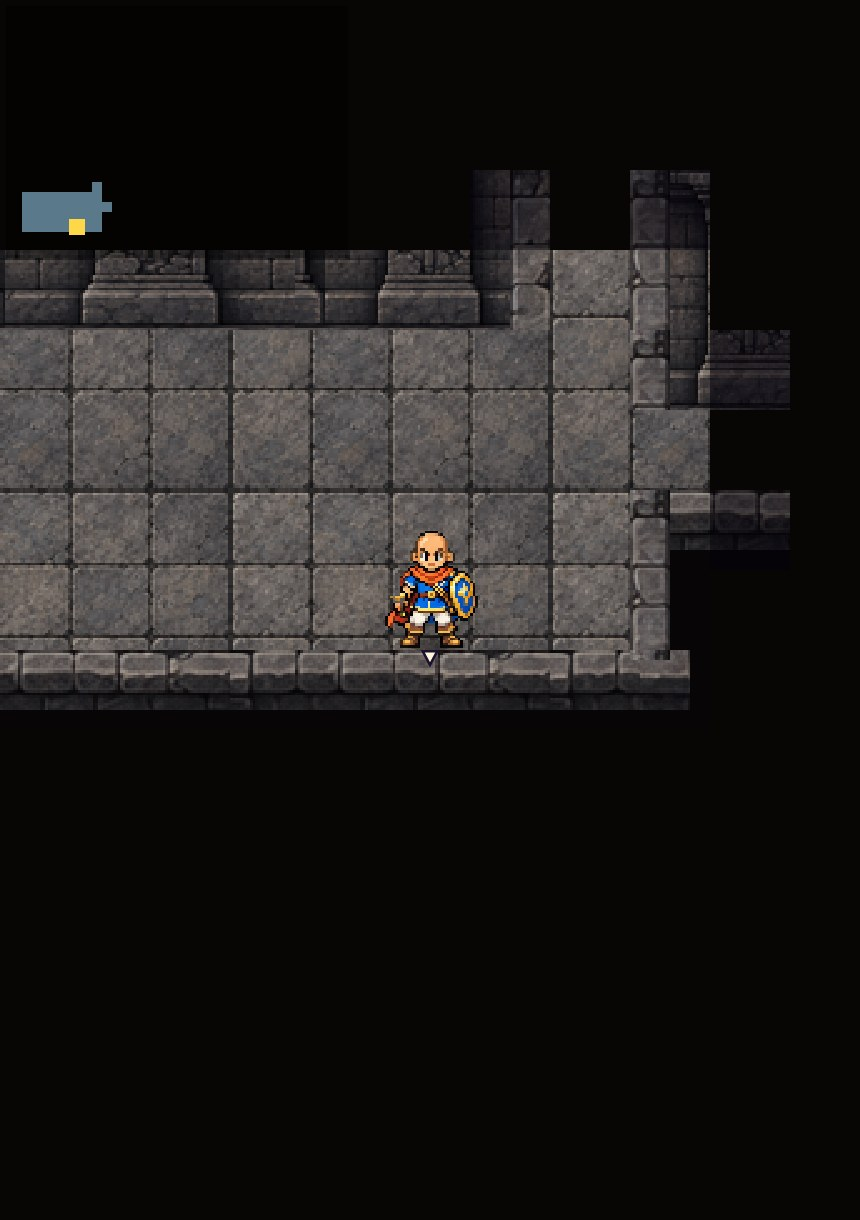
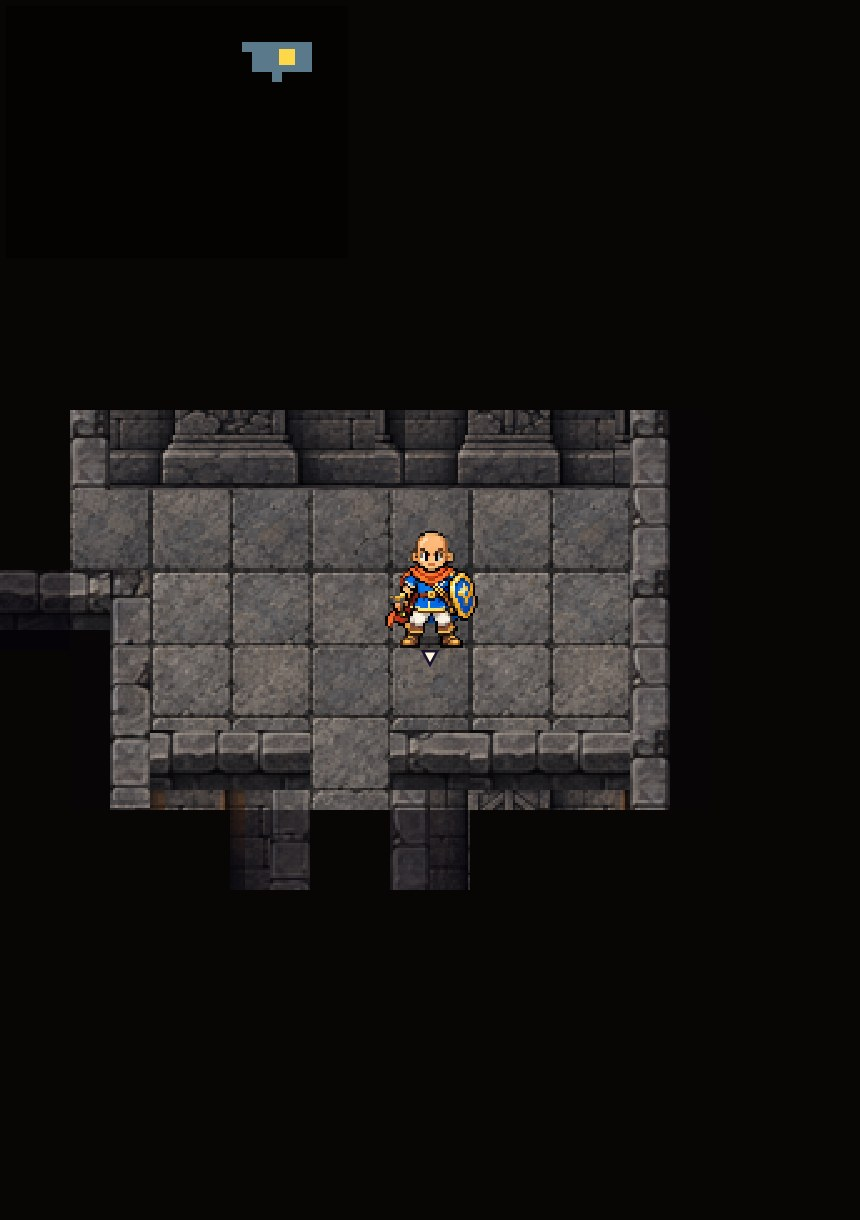
強めたB案（部屋どうしの間の壁を縦横3マス以上）と周回ルート（輪を2つまで）を本番に反映
新しく作る通常階が対象。空きマスが少なく4体置けない部屋はモンスターハウスにしない（地図が変わって3体の部屋が出た）。

Claude-Session: https://claude.ai/code/session_01HDLigwwegm7F2trSGLBQuS

Changed region(s): [[0.0, 0.1246, 0.9372, 0.7475], [0.2721, 0.0311, 0.3628, 0.0623]]

diff --git a/js/data.js b/js/data.js
@@ -36,8 +36,8 @@
   D.MAP_THICK_WALLS = true;   // プランB（2026年10月27日に採用）：薄い壁を作らない地図（js/dungeon.js の thickOk）。新しく作る階から。全地域
   // プランBの条件（10月27日）：side＝床と床の間の壁の横の幅の最小（3＝部屋どうしの間の壁が3マス以上）。run＝正面の壁の並びの最小（使わない：作り直しが増えすぎた）
   /* 周回ルート（試験中。null＝今までどおり追加の通路は1〜3本を試して引けた分だけ）：{ target: 2 }＝隣どうしの区画を足してつなぐ輪を2つまで（隠しダンジョンは今までどおり） */
-  D.MAP_LOOPS = null;
-  D.MAP_THICK_RULES = {};   // 本番は既定（side 2）。side 3 は水没した古代都市で試した段階（docs/sunken-planb/）。採用したら { side: 3 }
+  D.MAP_LOOPS = { target: 2 };   // 2026年10月28日に採用（新しく作る通常階）
+  D.MAP_THICK_RULES = { side: 3 };   // 2026年10月28日に採用：部屋どうしの間の壁は縦横とも3マス以上（docs/sunken-planb/）
   D.MAP.w = D.MAP.cols * D.MAP.cellW;
   D.MAP.h = D.MAP.rows * D.MAP.cellH;
 

diff --git a/js/game.js b/js/game.js
@@ -424,6 +424,8 @@
       if (occupied.some((o) => o.x === x && o.y === y) || G.enemyAt(run, x, y)) continue;
       free.push({ x, y });
     }
+    // 空きマスが少なく4体置けない部屋はモンスターハウスにしない（道具・階段などで埋まっていることがある）
+    if (Math.floor(free.length * 0.6) < 4) { run.map.monsterHouse = null; return; }
     R.shuffle(rng, free);
     const nE = Math.min(MH.enemiesMax, 4 + Math.floor(room.w * room.h / 6), Math.floor(free.length * 0.6));
     for (let i = 0; i < nE; i++) {

diff --git a/docs/REGION_V2_SPEC.md b/docs/REGION_V2_SPEC.md
@@ -57,3 +57,4 @@
 - 2026年10月28日：周回ルート（`D.MAP_LOOPS = { target: 2 }`、`js/dungeon.js`）を水没した古代都市で試した。全域木でつないだあと、つながっていない隣どうしの区画の組（行き止まりを含む組を先に）に通路を足して、輪を2つまで作る。引けない組は飛ばす（作り直しはしない）。隠しダンジョンは今までどおり。本番はまだ（null）。
   - 300枚の平均（強めたB案 side 3 と組み合わせ）：輪 0.52→1.99（輪なしの地図 164→0枚、2つ以上 18→296枚）、出口1つの部屋 1.78→0.37、行き止まりの通路 0.35→0.12、床 228→236マス、階段までの歩数 33→25、作る時間 0.7→0.8ms、予備の地図 0。
   - 印つきの全体図：`node tools/dungeon-art-preview.js`（SEED・LOOPS=2）→ `python3 -I tools/dungeon-loop-marks.py <フォルダ>`。`docs/sunken-loops/loops_s101|s202|s303.png`。
+- 2026年10月28日：強めたB案（side 3）と周回ルート（target 2）を本番に反映。全地域の新しく作る通常階が対象。既存のセーブの地図とボス部屋はそのまま。
